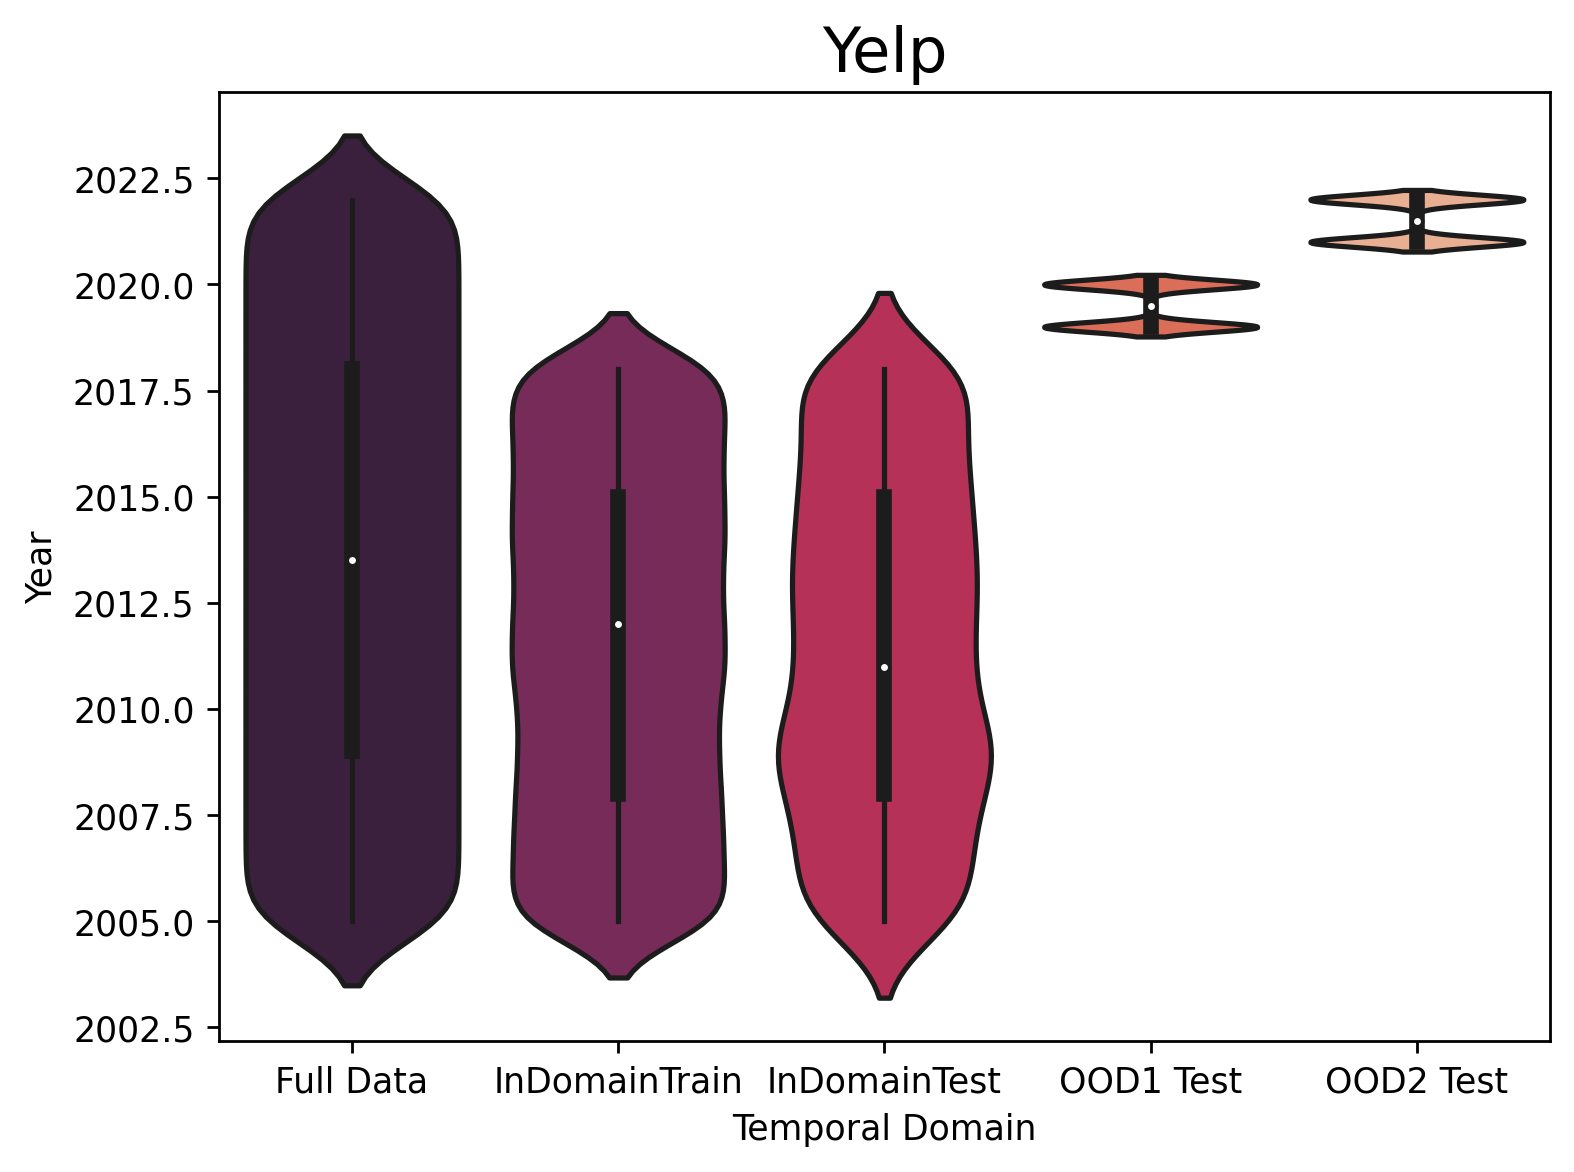
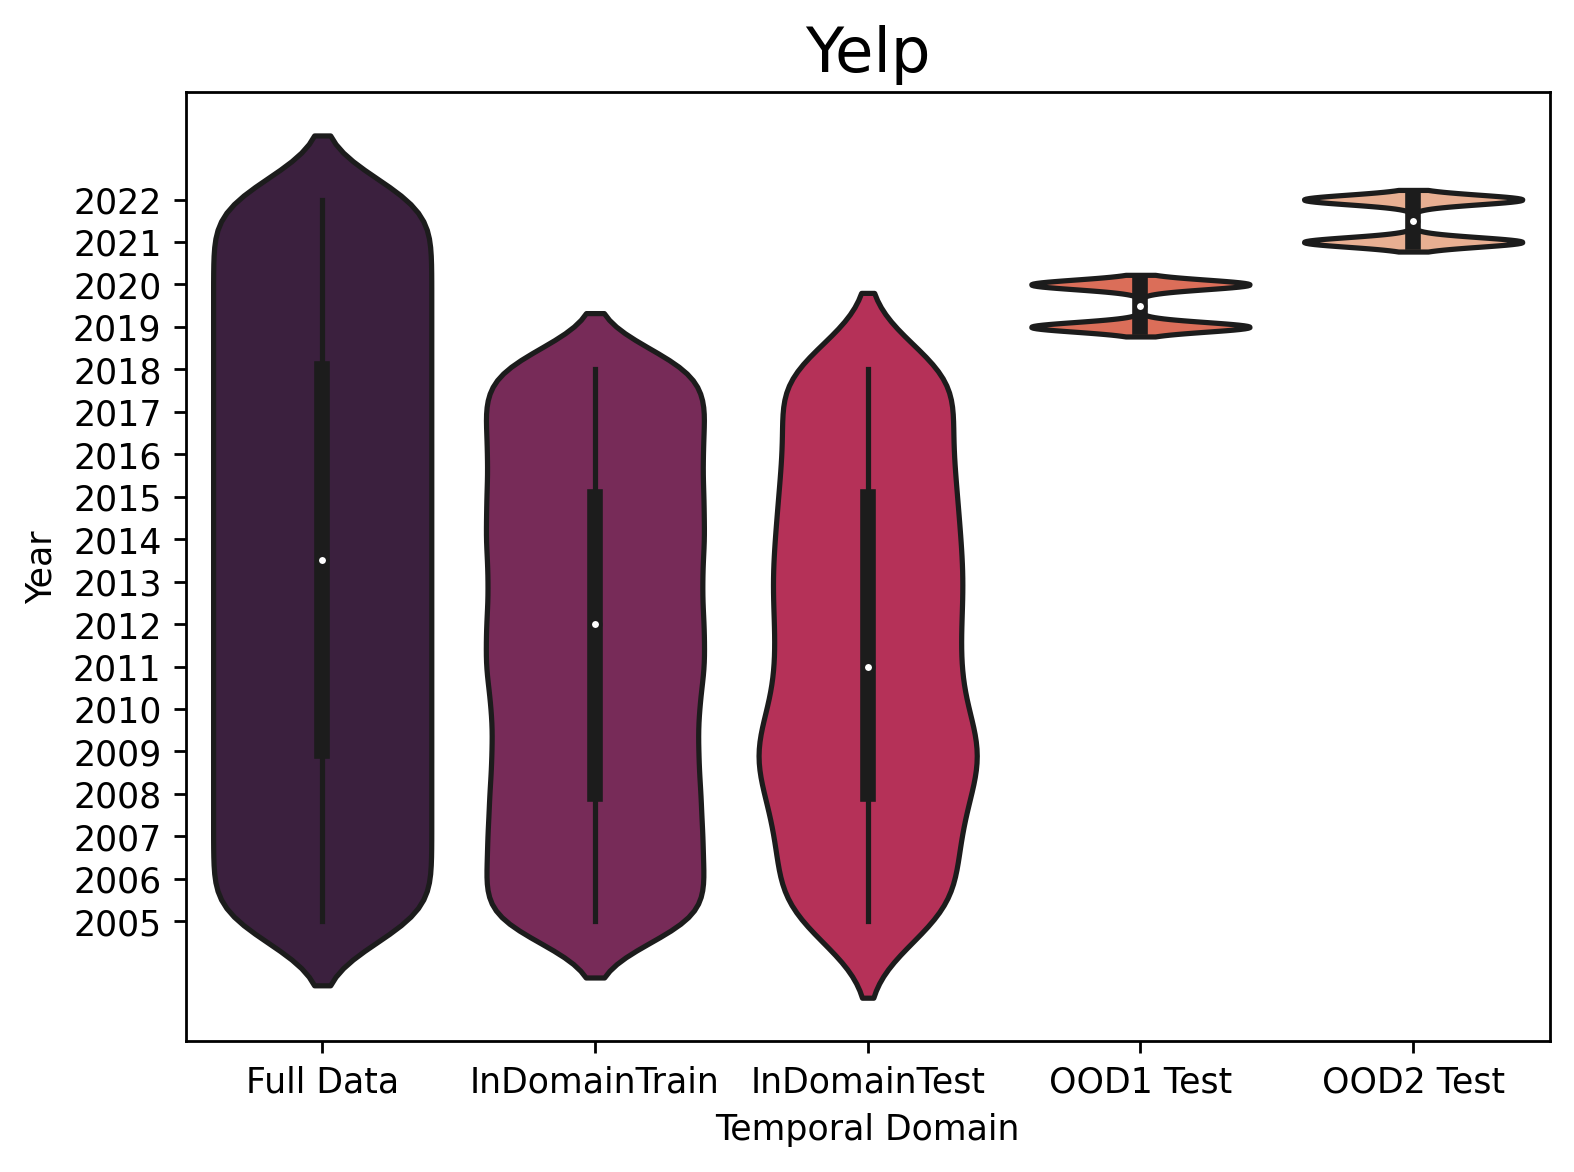
m

diff --git a/save_everything.py b/save_everything.py
@@ -189,6 +189,9 @@ if args.plot_time_distribution:
     #sns.displot(df, x="Year", hue="Temporal Domain", stat="density", common_norm=False)
 
     plt.title(str(args.dataset).capitalize(), fontsize=18)
+    if args.dataset == 'yelp':
+        yint = range(2005, 2023)
+        plt.yticks(yint)
     # plt.ylabel("Percentage")
     #plt.xlabel("Full size", "InDomain Train", "InDomain Test", "OOD1 Test", "OOD2 Test")
     #plt.legend(bbox_to_anchor=(1, 1, 0.28, 0.28), loc='best', borderaxespad=1)
